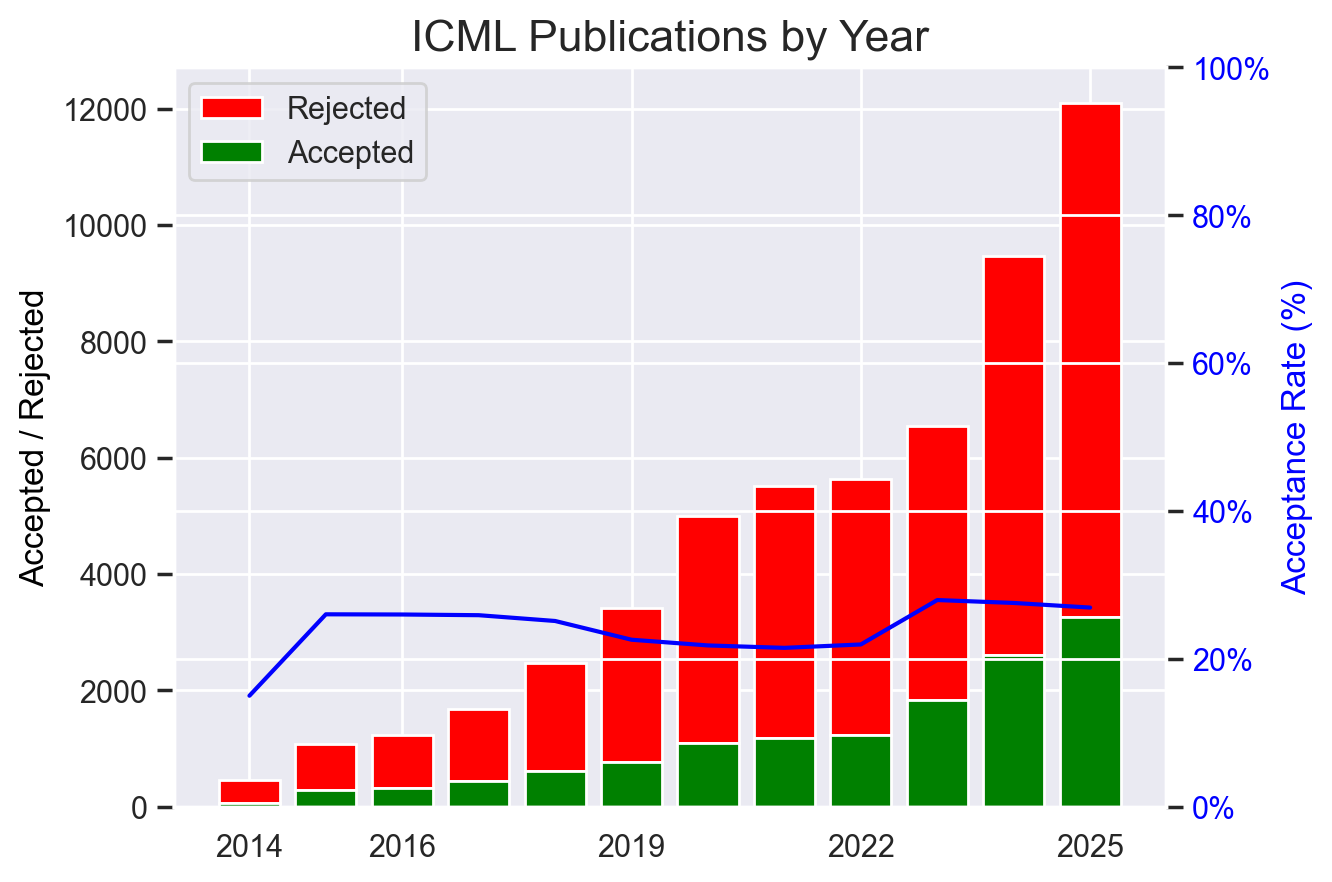
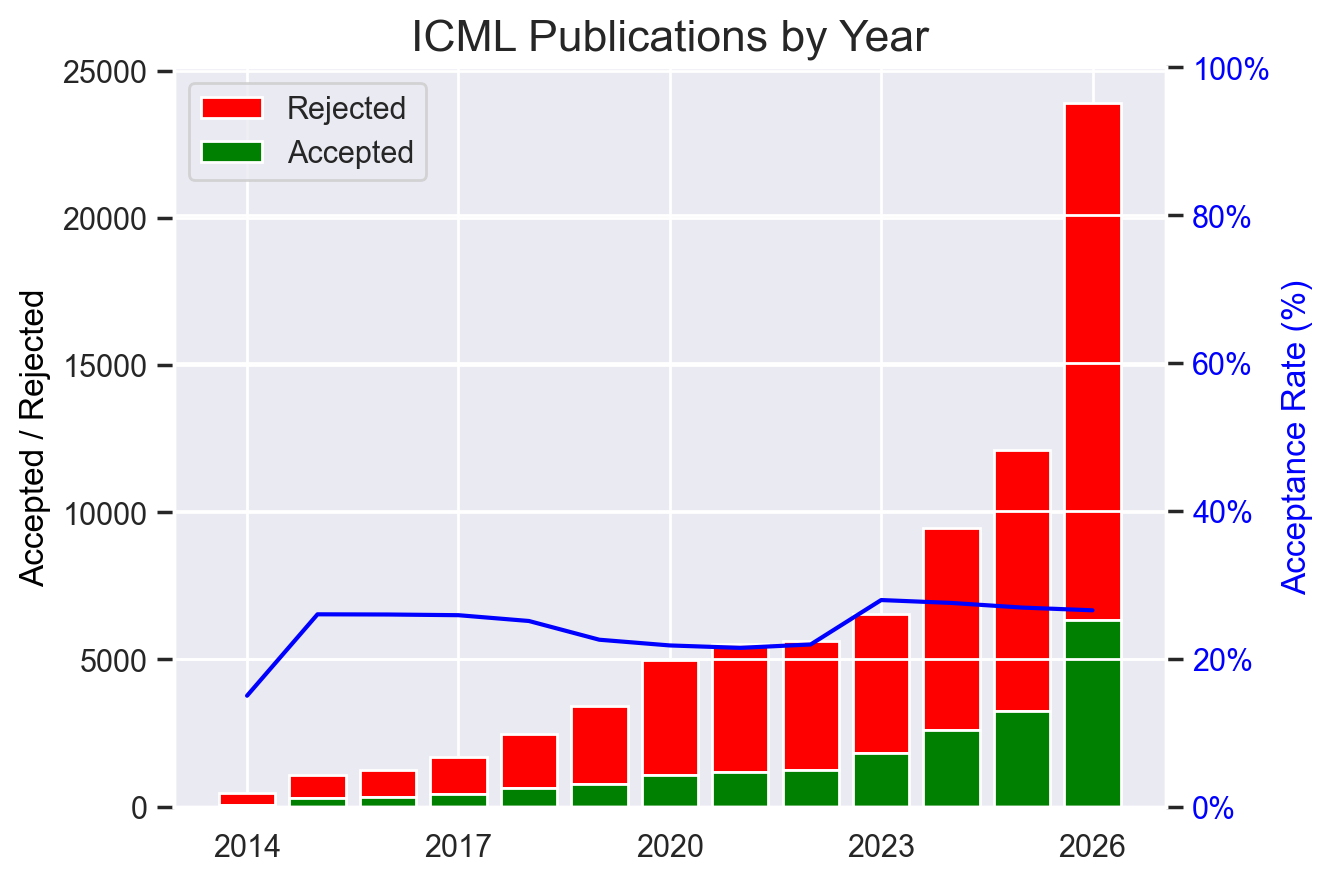
Add ICML 2026 (6352/23918, 26.6%)
Opening-day figures from official OpenReview decision release (via NTT/UCL);
23918 is the reviewed/considered count. NeurIPS 2026 decisions not out until
~September 2026.

diff --git a/CLAUDE.md b/CLAUDE.md
@@ -67,6 +67,10 @@ Verified already long-only (no change): ACL 2013-2018, 2021, 2023; all EMNLP yea
 
 Bottom line: permitted to use, but deprioritize in favor of the underlying primary sources.
 
+### Follow-up: ICML 2026 added
+
+ICML 2026 (held July 6-11, 2026, Seoul; in progress at time of update): **6352 accepted / 23918 submitted (26.6%)**. The 23,918 is a reviewed/considered count (submissions entering review after desk-rejections/withdrawals), consistent with the enforced convention. Source: NTT opening-day report (https://group.ntt/en/topics/2026/07/06/icml2026.html), corroborated by UCL Engineering; numbers trace to the opening-day OpenReview decision release — no official ICML fact-sheet PDF published yet. Paper Copilot still showed only fake placeholder data (418/1). **NeurIPS 2026 not added** — decisions are not released until ~September 2026.
+
 ## Update: December 2025
 
 ### Sources Used

diff --git a/README.md b/README.md
@@ -142,7 +142,7 @@
 <IMG SRC="https://github.com/emeryberger/csconferences/blob/main/graphs/ICLR.png?raw=true" WIDTH="500">
 <A NAME="ICML"></A>
 <P><B><A HREF="https://dblp.org/db/conf/icml/index.html">ICML</A></B>
- <em>mean acceptance rate, last 5 years: 25%</em></P>
+ <em>mean acceptance rate, last 5 years: 26%</em></P>
 <IMG SRC="https://github.com/emeryberger/csconferences/blob/main/graphs/ICML.png?raw=true" WIDTH="500">
 <A NAME="NeurIPS"></A>
 <P><B><A HREF="https://dblp.org/db/conf/neurips/index.html">NeurIPS</A></B>